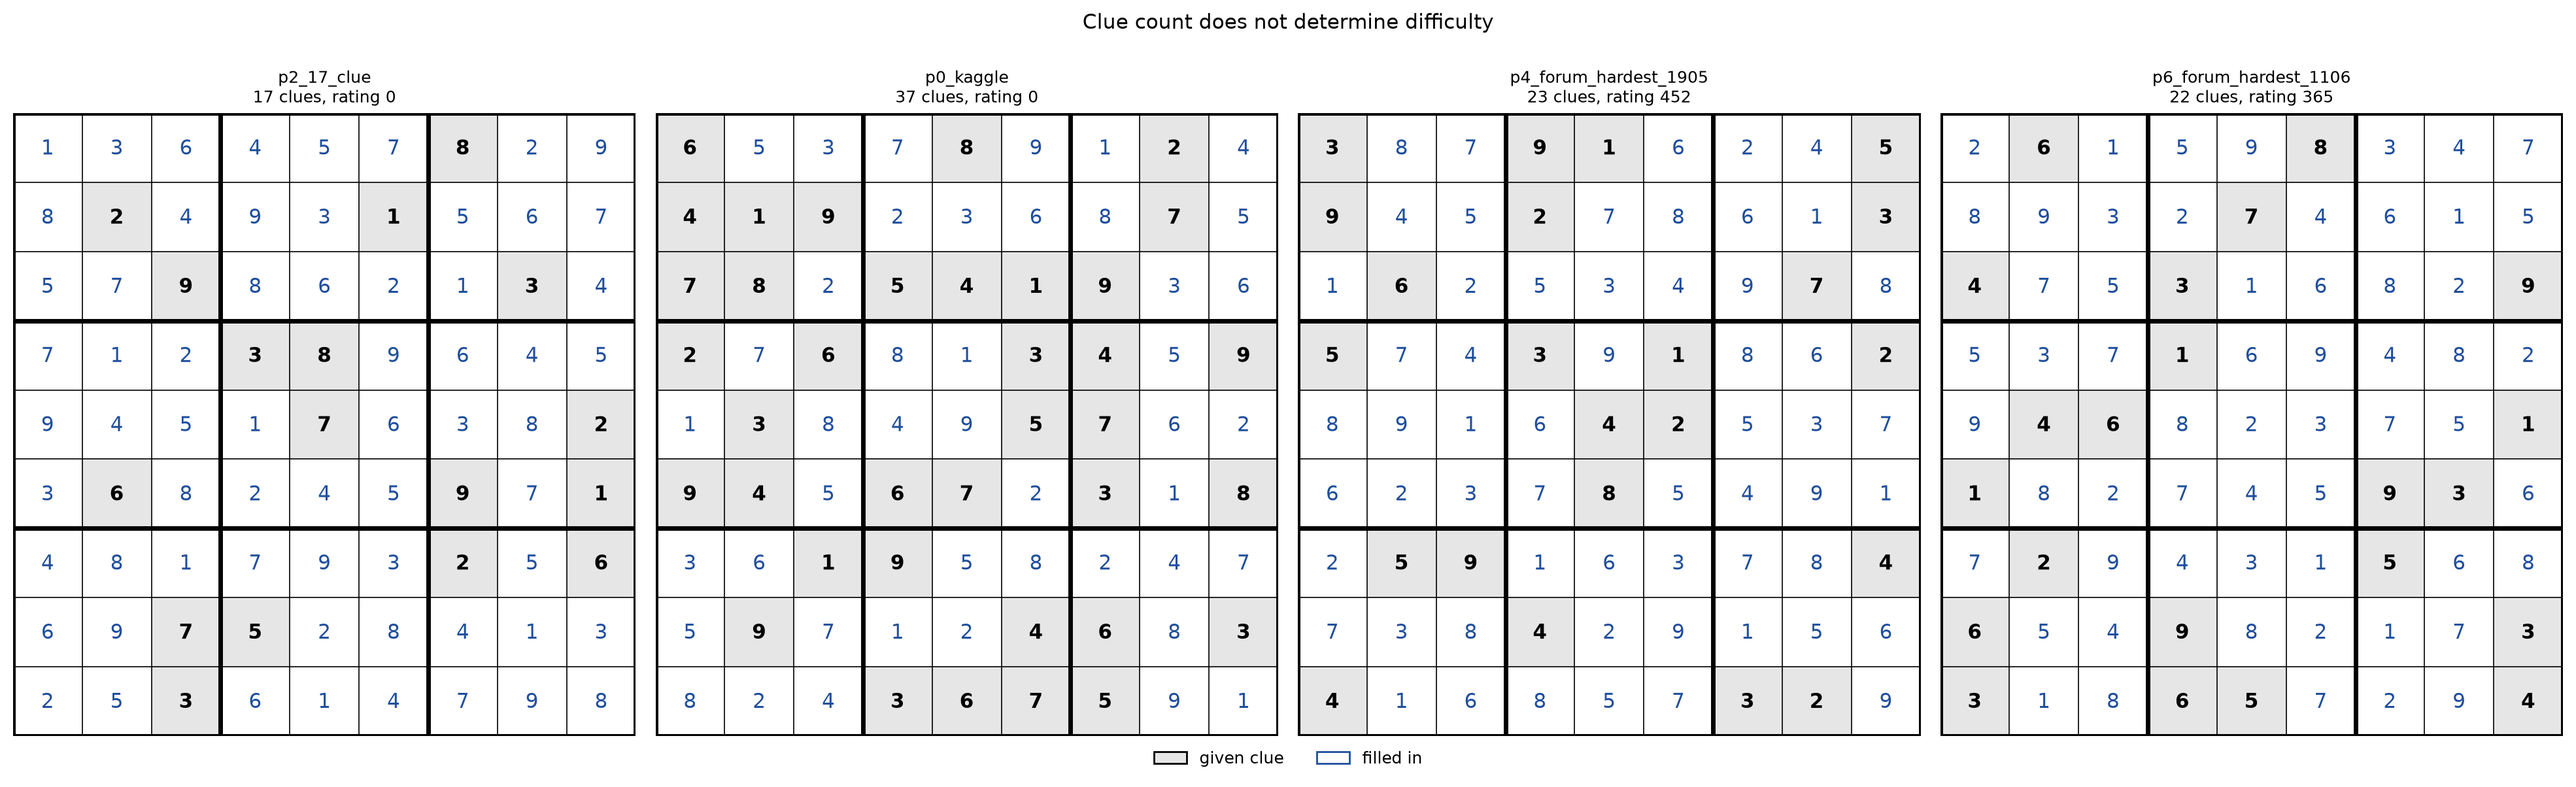
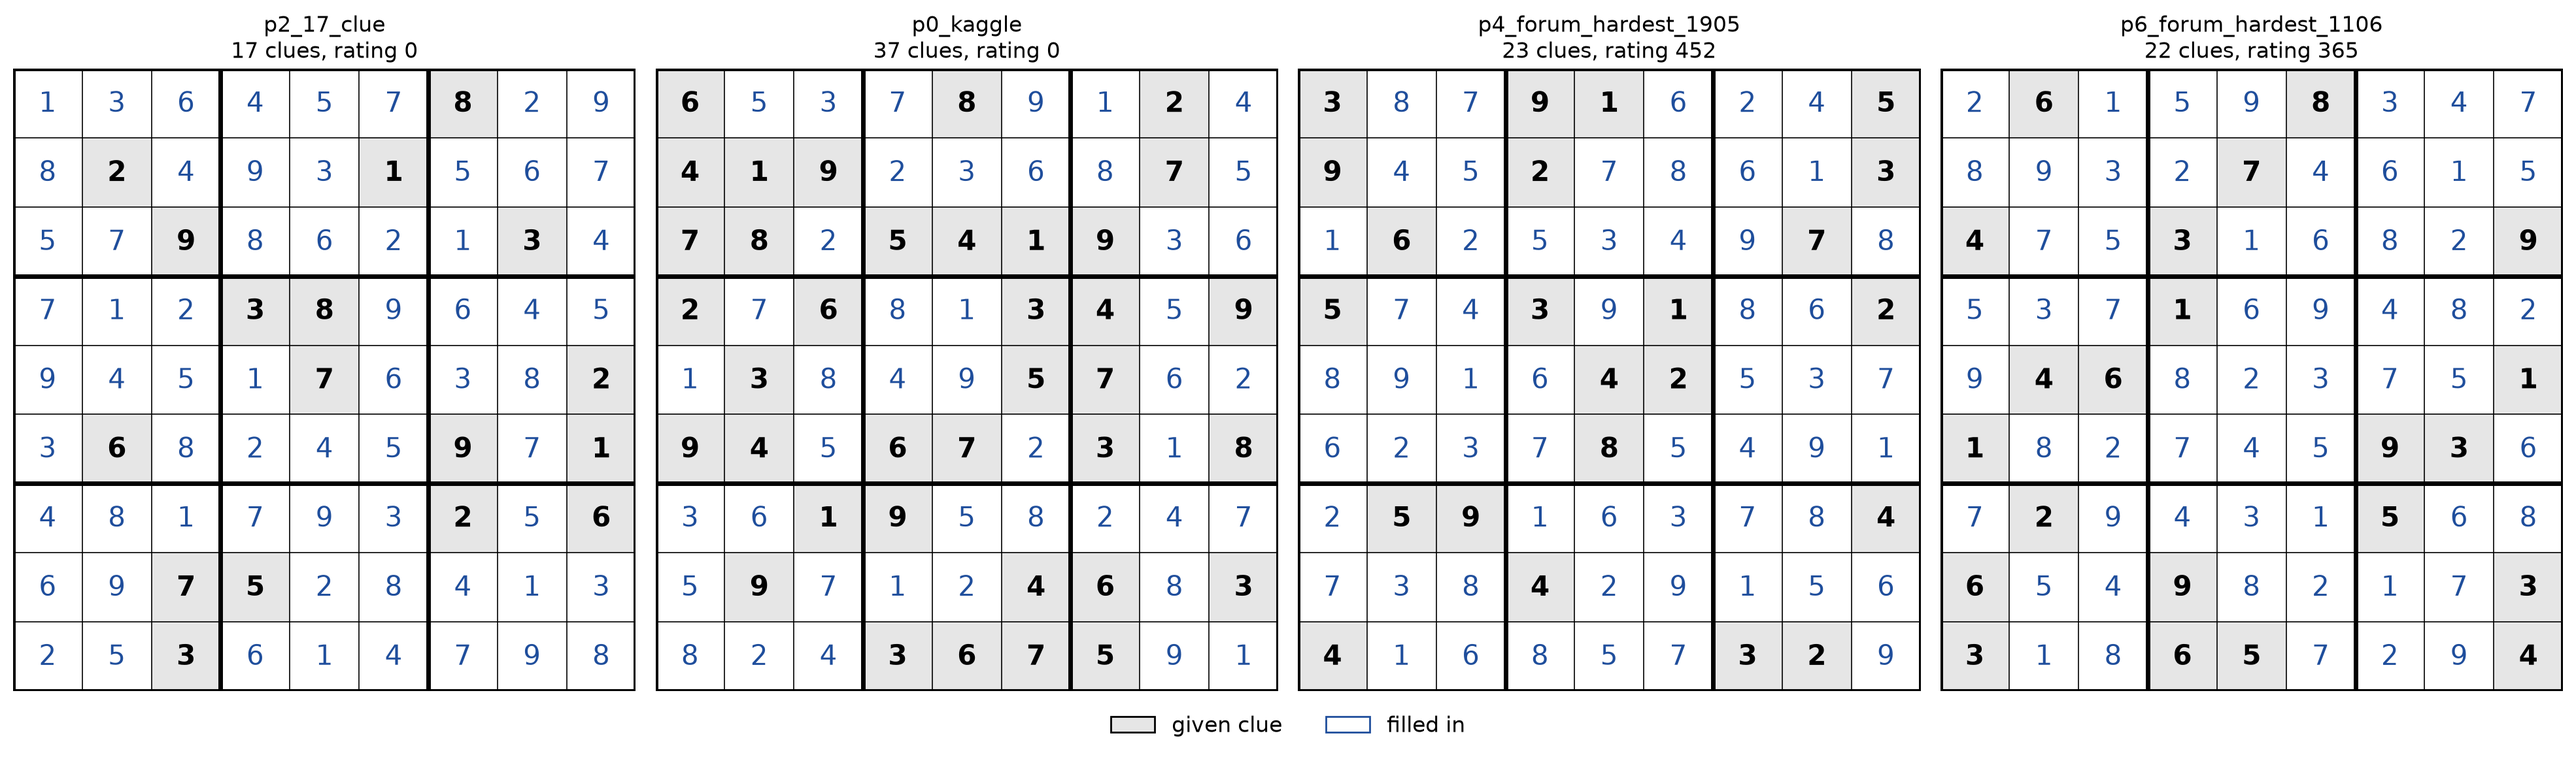
Anna's review: source breakdown, figure readability, signature test
- make_figures.py: results figure gets a source-collection panel (2x2 layout), larger fonts and legend
- visualization.py / explore.py: larger digits and titles in show(), no in-image title in figure 1
- tests/test_explore.py: invariance of the clue-pattern signature under Sudoku symmetries
- regenerated figures

diff --git a/MS1/make_figures.py b/MS1/make_figures.py
@@ -89,13 +89,13 @@ def learning_curves(results_dir, out):
                 ax.plot(log["step"], log[f"fresh_{metric}"], color=color, linestyle=":", label=f"{label}: unseen train")
             ax.set(title=title, xlabel="training step")
             ax.grid(alpha=0.3)
-    axes[0].legend(fontsize=7)
+    axes[0].legend(fontsize=9)
     fig.tight_layout()
     fig.savefig(out, dpi=200, bbox_inches="tight")
     plt.close(fig)
 
 
-def _bars(ax, groups, series, title):
+def _bars(ax, groups, series, title, rotate=0):
     """series: {label: (breakdown dict, color)}; bars for each group present in the first series."""
     width = 0.8 / len(series)
     x = np.arange(len(groups))
@@ -105,32 +105,37 @@ def _bars(ax, groups, series, title):
         ax.bar(pos, vals, width, color=color, label=label)
         for xi, v in zip(pos, vals):
             if not np.isnan(v):
-                ax.text(xi, v + 0.01, f"{v:.2f}", ha="center", fontsize=7)
+                ax.text(xi, v + 0.01, f"{v:.2f}", ha="center", fontsize=8)
     first = next(iter(series.values()))[0]
     ax.set_xticks(x)
-    ax.set_xticklabels([f"{g}\n(n={first[g]['n']})" for g in groups], fontsize=8)
-    ax.set_ylim(0, 1.05)
-    ax.set_title(title, fontsize=10)
+    ax.set_xticklabels([f"{g}\n(n={first[g]['n']})" for g in groups], fontsize=9, rotation=rotate,
+                       ha="right" if rotate else "center")
+    ax.set_ylim(0, 1.1)
+    ax.set_title(title, fontsize=11)
     ax.grid(axis="y", alpha=0.3)
 
 
 def breakdown_figure(results_dir, out):
-    """Exact-match by clue count, rating band and shared clue pattern; model vs naive candidates, same test rows."""
+    """Exact match by clue count, rating band, source and shared clue pattern; model vs naive candidates."""
     model = (_load_json(results_dir / MAIN_RUN / "eval_fresh.json") or {}).get("test")
     naive = (_load_json(results_dir / "baselines.json") or {}).get("naive_candidates")
     if model is None or "by_rating" not in model or naive is None:
         print("breakdown figure skipped: run MS1.evaluate on the main run and MS1.baselines first")
         return
     keys = [("by_clue_bucket", "by number of given clues"), ("by_rating", "by difficulty rating"),
-            ("by_shared_pattern", "by clue pattern shared with train")]
+            ("by_source", "by source collection"), ("by_shared_pattern", "by clue pattern shared with train")]
     keys = [(k, t) for k, t in keys if k in model]
-    fig, axes = plt.subplots(1, len(keys), figsize=(5 * len(keys), 3.8), sharey=True)
-    for ax, (key, title) in zip(np.atleast_1d(axes), keys):
+    fig, axes = plt.subplots(2, 2, figsize=(12, 8), sharey=True)
+    for ax in axes.ravel()[len(keys):]:
+        ax.axis("off")
+    for ax, (key, title) in zip(axes.ravel(), keys):
         series = {"recurrent transformer": (model[key], MODEL_COLOR),
                   "naive candidates": (naive.get(key, {}), NAIVE_COLOR)}
-        _bars(ax, list(model[key]), series, f"Exact match {title}")
-    np.atleast_1d(axes)[0].set_ylabel("exact-match accuracy")
-    np.atleast_1d(axes)[0].legend(fontsize=8)
+        groups = sorted(model[key], key=lambda g: -model[key][g]["n"]) if key == "by_source" else list(model[key])
+        _bars(ax, groups, series, f"Exact match {title}", rotate=25 if key == "by_source" else 0)
+    for ax in axes[:, 0]:
+        ax.set_ylabel("exact-match accuracy")
+    axes[0, 0].legend(fontsize=9)
     fig.tight_layout()
     fig.savefig(out, dpi=200, bbox_inches="tight")
     plt.close(fig)

diff --git a/MS1/visualization.py b/MS1/visualization.py
@@ -58,7 +58,7 @@ def show(x, outfile=None, titles=None, show_plot=True, clues=None, target=None,
         ax.set_ylim(9, 0)
         ax.set_aspect("equal")
         ax.axis("off")
-        ax.set_title(title, fontsize=9, pad=6)
+        ax.set_title(title, fontsize=12, pad=6)
 
         for row in range(9):
             for col in range(9):
@@ -71,7 +71,7 @@ def show(x, outfile=None, titles=None, show_plot=True, clues=None, target=None,
                 if value != 0:
                     ax.text(
                         col + 0.5, row + 0.52, str(value), ha="center", va="center",
-                        fontsize=11 * cell_size / 0.55,
+                        fontsize=15 * cell_size / 0.55,
                         fontweight="bold" if given[row, col] else "normal",
                         color="black" if given[row, col] else (WRONG_COLOR if wrong[row, col] else FILL_COLOR),
                     )
@@ -92,7 +92,7 @@ def show(x, outfile=None, titles=None, show_plot=True, clues=None, target=None,
                    Patch(facecolor="white", edgecolor=FILL_COLOR, label="filled in")]
         if target is not None:
             handles.append(Patch(facecolor=WRONG_COLOR, alpha=0.25, edgecolor=WRONG_COLOR, label="incorrect"))
-        fig.legend(handles=handles, loc="lower center", ncol=len(handles), frameon=False, fontsize=9,
+        fig.legend(handles=handles, loc="lower center", ncol=len(handles), frameon=False, fontsize=12,
                    bbox_to_anchor=(0.5, -0.02))
     if suptitle:
         fig.suptitle(suptitle, fontsize=11, y=1.04)

diff --git a/MS1/tests/test_explore.py b/MS1/tests/test_explore.py
@@ -1,0 +1,32 @@
+import unittest
+
+import numpy as np
+
+from MS1.explore import pattern_signature
+
+
+def _axis_permutation(rng):
+    return np.concatenate([b * 3 + rng.permutation(3) for b in rng.permutation(3)])
+
+
+class TestPatternSignature(unittest.TestCase):
+
+    def test_invariant_under_sudoku_symmetries(self):
+        rng = np.random.default_rng(0)
+        masks = rng.random((500, 9, 9)) < 0.3
+        moved = []
+        for m in masks:
+            m = m[_axis_permutation(rng)][:, _axis_permutation(rng)]
+            moved.append(m.T if rng.random() < 0.5 else m)
+        a = pattern_signature(masks.reshape(-1, 81))
+        b = pattern_signature(np.stack(moved).reshape(-1, 81))
+        np.testing.assert_array_equal(a, b)
+
+    def test_distinguishes_different_patterns(self):
+        rng = np.random.default_rng(1)
+        masks = rng.random((500, 81)) < 0.3
+        self.assertGreater(len(np.unique(pattern_signature(masks), axis=0)), 490)
+
+
+if __name__ == "__main__":
+    unittest.main()

diff --git a/MS1/explore.py b/MS1/explore.py
@@ -185,8 +185,7 @@ def fig_examples(train, q, a, out):
         if len(sub):
             idx.append(sub.sort_values([key, "rating"], ascending=[ascending, True]).index[0])
     titles = [f"{train.at[i, 'source']}\n{train.at[i, 'clues']} clues, rating {train.at[i, 'rating']}" for i in idx]
-    fig = show([a[i] for i in idx], clues=[q[i] for i in idx], titles=titles, show_plot=False,
-               ncols=len(idx), suptitle="Clue count does not determine difficulty")
+    fig = show([a[i] for i in idx], clues=[q[i] for i in idx], titles=titles, show_plot=False, ncols=len(idx))
     fig.savefig(out, dpi=200, bbox_inches="tight")
     plt.close(fig)
 
